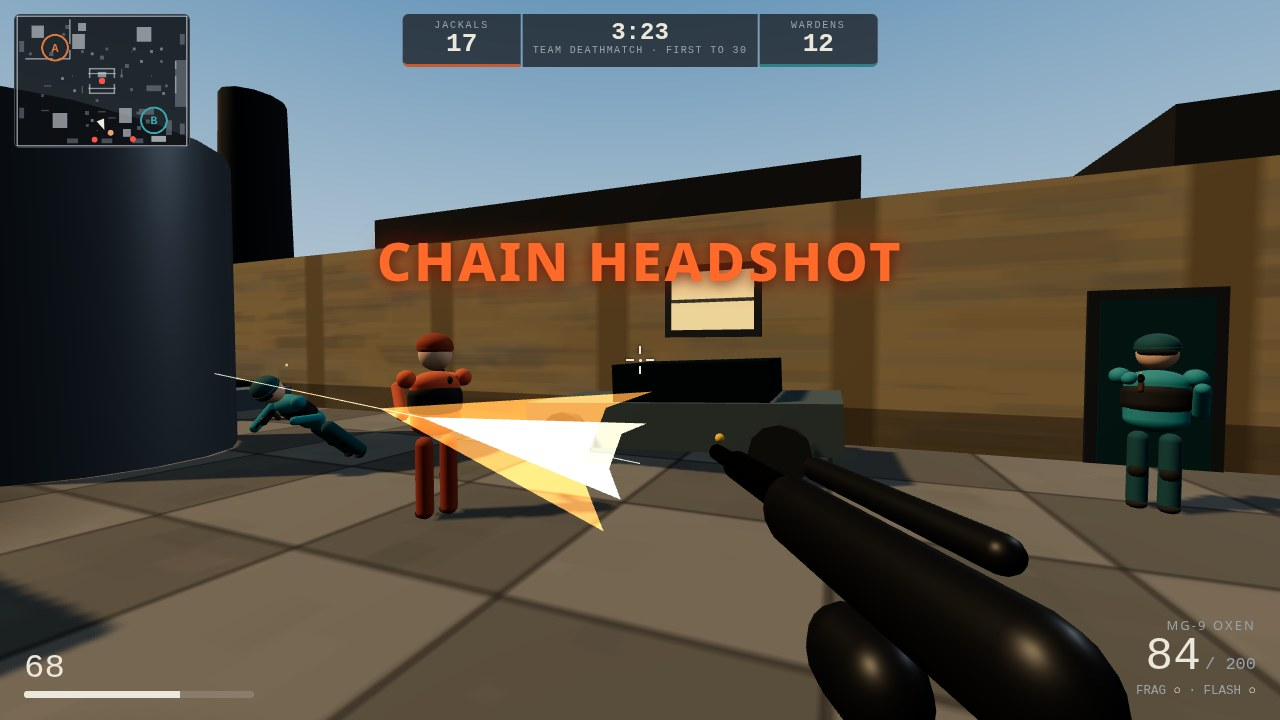
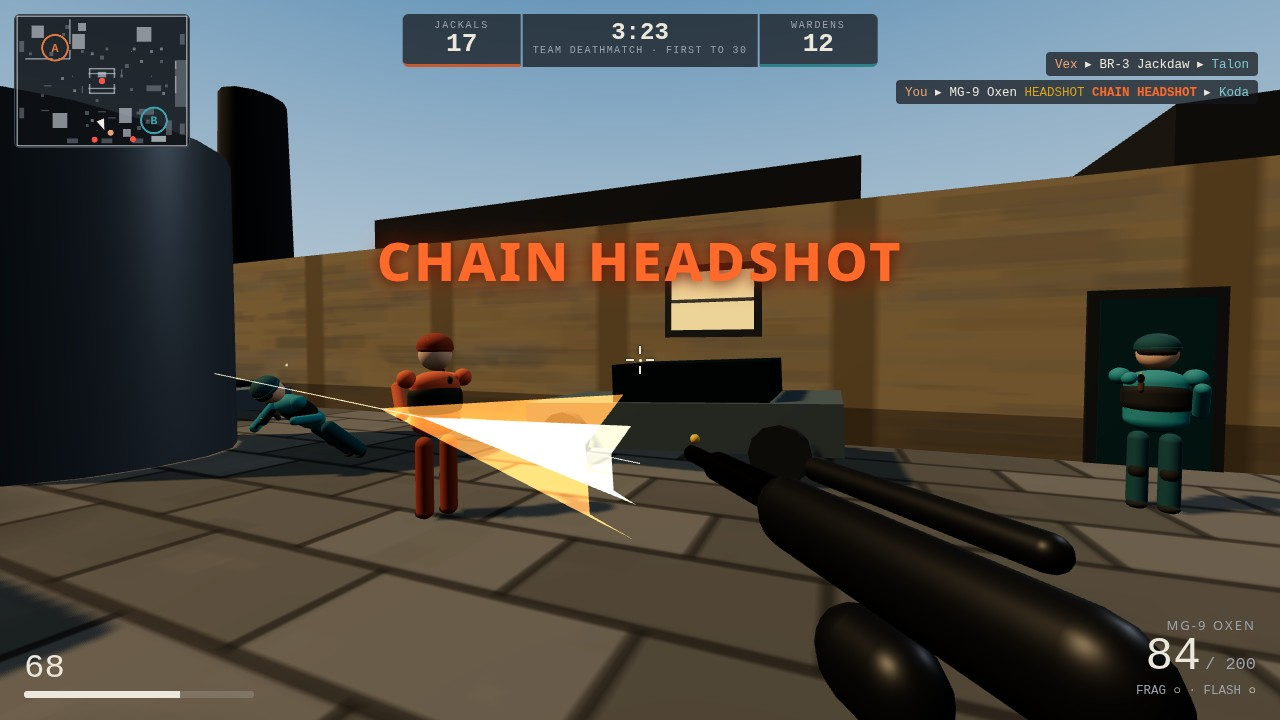
V10: money readout moved bottom-left above the health bar (+floaters, 25px), ground checker replaced with running-bond concrete-block paving

diff --git a/game/src/textures.js b/game/src/textures.js
@@ -43,12 +43,19 @@ export function groundTexture(random) {
   ctx.fillRect(px(-34), pz(-26), 24 * m, 20 * m);
   ctx.fillRect(px(-8), pz(-8), 16 * m, 16 * m);
   ctx.globalAlpha = 1;
-  ctx.fillStyle = 'rgba(228,222,202,0.14)';
-  for (let i = 0; i < 34; i++) for (let j = 0; j < 26; j++) if ((i + j) % 2 === 0) ctx.fillRect(px(2 * i - 34), pz(2 * j - 26), 2 * m, 2 * m);
-  ctx.strokeStyle = 'rgba(20,20,20,0.4)';
-  ctx.lineWidth = 2;
-  for (let x = -32; x < 34; x += 2) { ctx.beginPath(); ctx.moveTo(px(x), 0); ctx.lineTo(px(x), H); ctx.stroke(); }
-  for (let z = -24; z < 26; z += 2) { ctx.beginPath(); ctx.moveTo(0, pz(z)); ctx.lineTo(W, pz(z)); ctx.stroke(); }
+  for (let j = 0; j < 52; j++) {
+    const off = (j % 2) * m;
+    for (let i = -1; i < 35; i++) {
+      const h = (i * 37 + j * 91) % 7;
+      if (h === 3) continue;
+      ctx.fillStyle = h < 3 ? 'rgba(235,230,215,0.08)' : 'rgba(8,8,10,0.09)';
+      ctx.fillRect(px(2 * i - 34) - off, pz(j - 26), 2 * m, H / 52);
+    }
+  }
+  ctx.strokeStyle = 'rgba(22,20,18,0.55)';
+  ctx.lineWidth = 3;
+  for (let z = -25; z < 26; z += 1) { ctx.beginPath(); ctx.moveTo(0, pz(z)); ctx.lineTo(W, pz(z)); ctx.stroke(); }
+  for (let j = 0; j < 52; j++) for (let x = -34 - (j % 2); x <= 34; x += 2) { ctx.beginPath(); ctx.moveTo(px(x), pz(j - 26)); ctx.lineTo(px(x), pz(j - 25)); ctx.stroke(); }
   for (let i = 0; i < 26; i++) {
     const x = random() * W;
     const y = random() * H;

diff --git a/game/index.html b/game/index.html
@@ -68,8 +68,8 @@ html,body{margin:0;height:100%;overflow:hidden;background:var(--canvas);color:va
 .load-item .buy-key{width:19px;height:19px;display:grid;place-items:center;border:1px solid var(--hairline);border-radius:4px;font-size:11px;color:var(--muted);}
 .load-item.sel{border-color:var(--accent);color:var(--accent);}
 
-#money{position:fixed;top:16px;right:22px;font-family:var(--font-readout);font-size:22px;color:#9fd48a;text-shadow:0 1px 4px rgba(0,0,0,.7);}
-#money-pop{position:fixed;top:48px;right:22px;z-index:6;text-align:right;font-family:var(--font-readout);pointer-events:none;}
+#money{position:fixed;left:24px;bottom:78px;font-family:var(--font-readout);font-size:25px;color:#9fd48a;text-shadow:0 1px 4px rgba(0,0,0,.7);}
+#money-pop{position:fixed;left:24px;bottom:114px;z-index:6;text-align:left;font-family:var(--font-readout);pointer-events:none;}
 #money-pop .pop{font-size:15px;font-weight:700;color:#9fd48a;animation:mpop 1.4s ease-out forwards;}
 #money-pop .pop.neg{color:var(--danger);}
 @keyframes mpop{0%{opacity:0;transform:translateY(6px);} 15%{opacity:1;} 70%{opacity:1;} 100%{opacity:0;transform:translateY(-14px);} }
